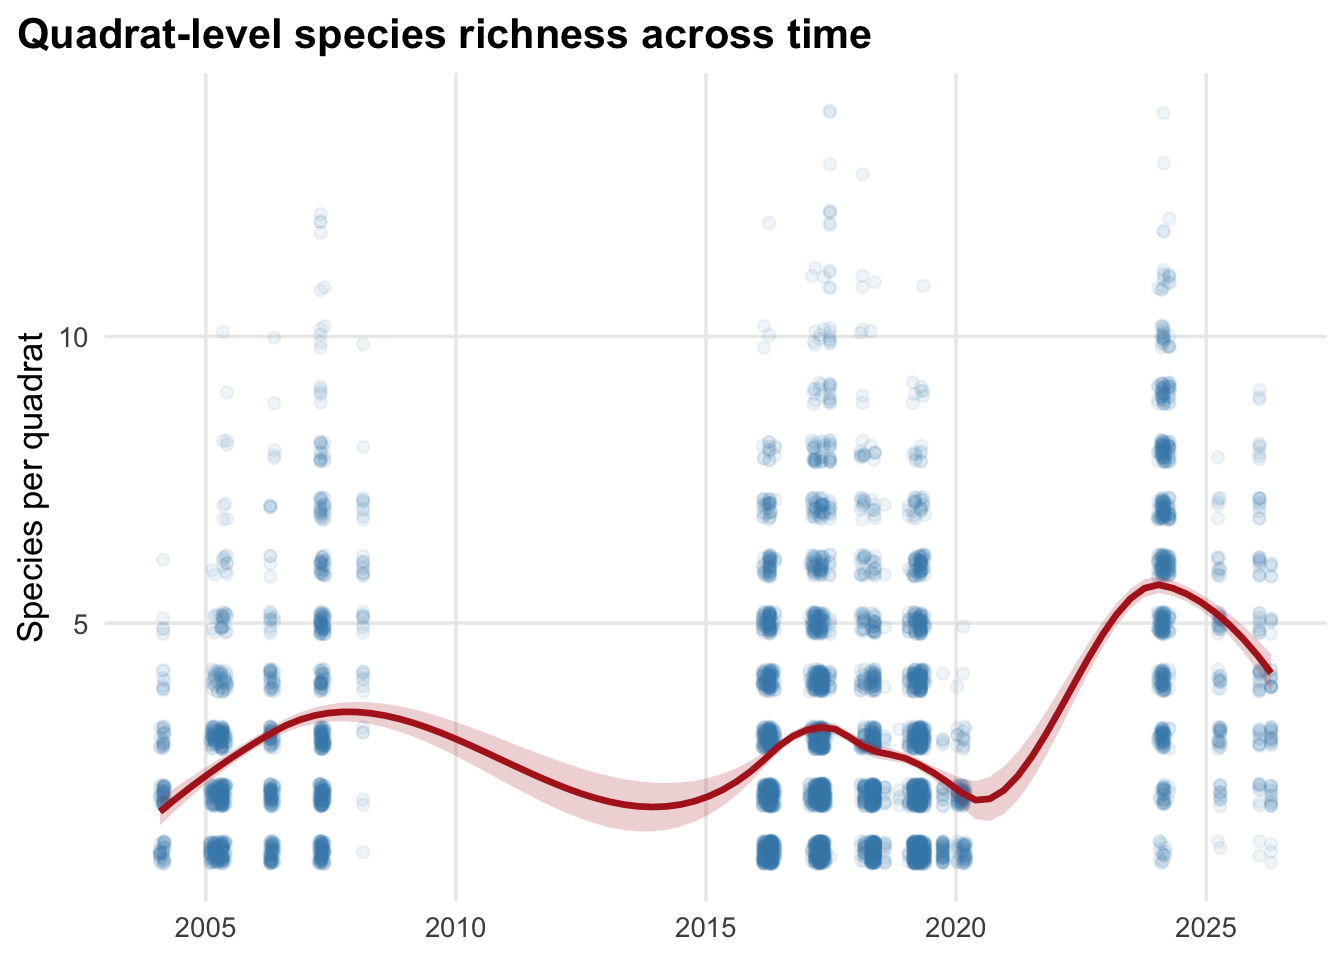
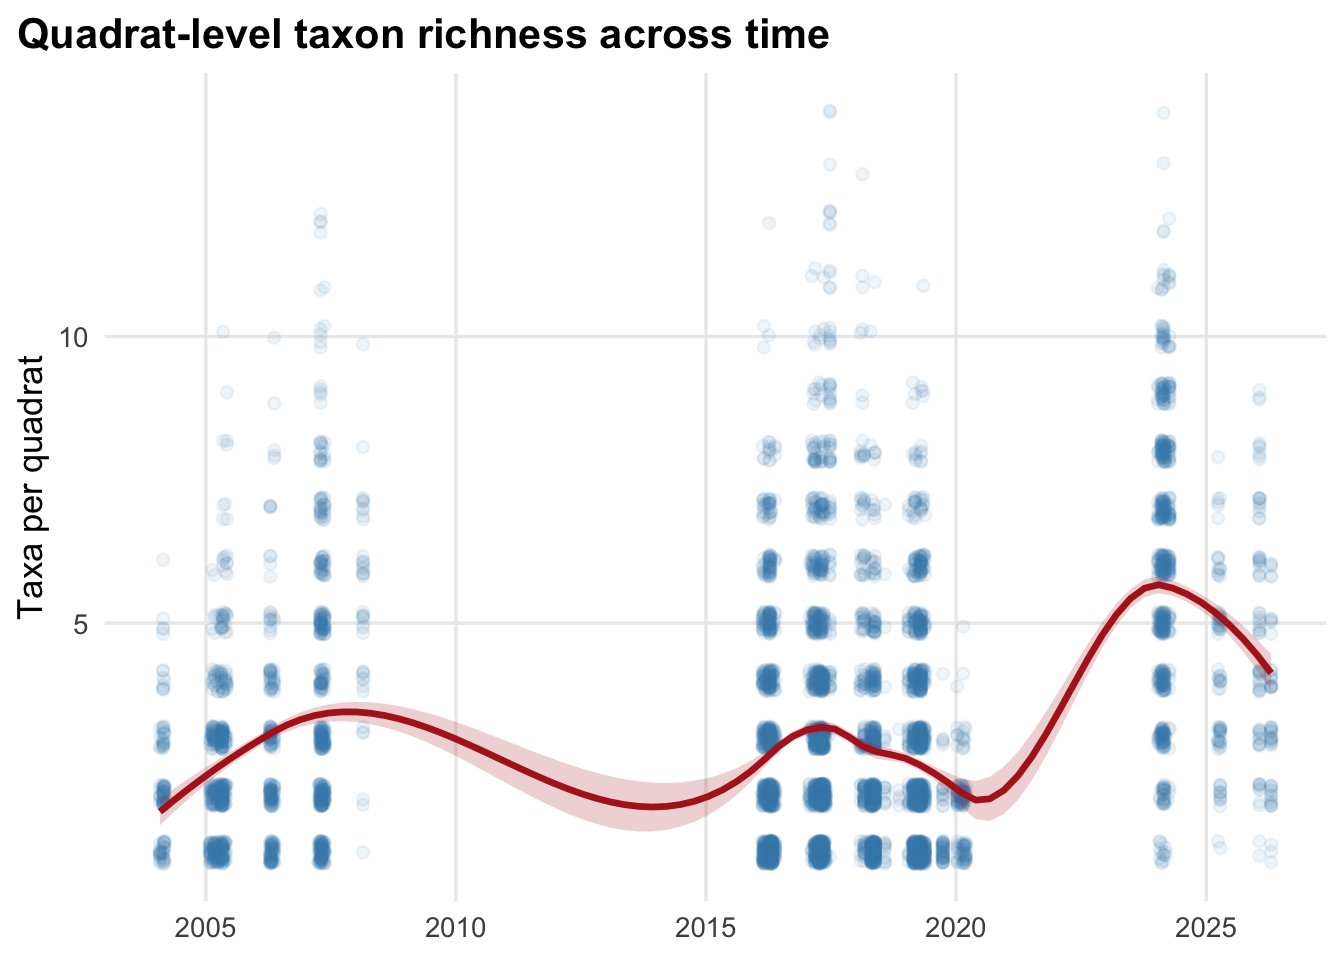
NGS AI log + qmd update

Changed region(s): [[0.2188, 0.0, 0.6562, 0.0625], [0.0, 0.3438, 0.0312, 0.6875]]

diff --git a/Scripts/Scripts_NGS/opihi_plots_NGS.html b/Scripts/Scripts_NGS/opihi_plots_NGS.html
@@ -92,8 +92,8 @@ pre > code.sourceCode > span > a:first-child::before { text-decoration: underlin
   <li><a href="#loading-data" id="toc-loading-data" class="nav-link" data-scroll-target="#loading-data">Loading data</a></li>
   <li><a href="#data-wrangling" id="toc-data-wrangling" class="nav-link" data-scroll-target="#data-wrangling">Data wrangling</a></li>
   <li><a href="#nmds-plot-by-island" id="toc-nmds-plot-by-island" class="nav-link" data-scroll-target="#nmds-plot-by-island">NMDS plot by island</a></li>
-  <li><a href="#species-diversity-across-time-pooled-sites" id="toc-species-diversity-across-time-pooled-sites" class="nav-link" data-scroll-target="#species-diversity-across-time-pooled-sites">Species diversity across time (pooled sites):</a></li>
-  <li><a href="#species-richness-over-time-by-island" id="toc-species-richness-over-time-by-island" class="nav-link" data-scroll-target="#species-richness-over-time-by-island">Species richness over time, by island</a></li>
+  <li><a href="#taxon-diversity-across-time-pooled-sites" id="toc-taxon-diversity-across-time-pooled-sites" class="nav-link" data-scroll-target="#taxon-diversity-across-time-pooled-sites">Taxon diversity across time (pooled sites):</a></li>
+  <li><a href="#taxon-richness-over-time-by-island" id="toc-taxon-richness-over-time-by-island" class="nav-link" data-scroll-target="#taxon-richness-over-time-by-island">Taxon richness over time, by island</a></li>
   <li><a href="#visualizing-trends-of-winners-and-losers-per-taxon-trend-over-time" id="toc-visualizing-trends-of-winners-and-losers-per-taxon-trend-over-time" class="nav-link" data-scroll-target="#visualizing-trends-of-winners-and-losers-per-taxon-trend-over-time">Visualizing trends of “winners and losers” per-taxon trend over time</a></li>
   </ul>
 </nav>
@@ -463,8 +463,8 @@ Figure&nbsp;1: NMDS visualizing community composition shifts by island across ti
 </div>
 </div>
 </section>
-<section id="species-diversity-across-time-pooled-sites" class="level2">
-<h2 class="anchored" data-anchor-id="species-diversity-across-time-pooled-sites">Species diversity across time (pooled sites):</h2>
+<section id="taxon-diversity-across-time-pooled-sites" class="level2">
+<h2 class="anchored" data-anchor-id="taxon-diversity-across-time-pooled-sites">Taxon diversity across time (pooled sites):</h2>
 <div class="cell">
 <details class="code-fold">
 <summary>Show code</summary>
@@ -496,7 +496,7 @@ Figure&nbsp;1: NMDS visualizing community composition shifts by island across ti
 <span id="cb16-9"><a href="#cb16-9" aria-hidden="true" tabindex="-1"></a>  <span class="fu">ggplot</span>(<span class="fu">aes</span>(date, richness)) <span class="sc">+</span></span>
 <span id="cb16-10"><a href="#cb16-10" aria-hidden="true" tabindex="-1"></a>  <span class="fu">geom_jitter</span>(<span class="at">alpha =</span> <span class="fl">0.08</span>, <span class="at">width =</span> <span class="dv">0</span>, <span class="at">height =</span> <span class="fl">0.2</span>, <span class="at">color =</span> <span class="st">"steelblue"</span>) <span class="sc">+</span></span>
 <span id="cb16-11"><a href="#cb16-11" aria-hidden="true" tabindex="-1"></a>  <span class="fu">geom_smooth</span>(<span class="at">method =</span> <span class="st">"loess"</span>, <span class="at">span =</span> <span class="fl">0.6</span>, <span class="at">color =</span> <span class="st">"firebrick"</span>, <span class="at">fill =</span> <span class="st">"firebrick"</span>, <span class="at">alpha =</span> <span class="fl">0.2</span>) <span class="sc">+</span></span>
-<span id="cb16-12"><a href="#cb16-12" aria-hidden="true" tabindex="-1"></a>  <span class="fu">labs</span>(<span class="at">title =</span> <span class="st">"Quadrat-level species richness across time"</span>, <span class="at">x =</span> <span class="cn">NULL</span>, <span class="at">y =</span> <span class="st">"Species per quadrat"</span>)</span>
+<span id="cb16-12"><a href="#cb16-12" aria-hidden="true" tabindex="-1"></a>  <span class="fu">labs</span>(<span class="at">title =</span> <span class="st">"Quadrat-level taxon richness across time"</span>, <span class="at">x =</span> <span class="cn">NULL</span>, <span class="at">y =</span> <span class="st">"Taxa per quadrat"</span>)</span>
 <span id="cb16-13"><a href="#cb16-13" aria-hidden="true" tabindex="-1"></a>p_div_pooled</span></code></pre></div><button title="Copy to Clipboard" class="code-copy-button"><i class="bi"></i></button></div>
 </details>
 <div class="cell-output-display">
@@ -506,15 +506,15 @@ Figure&nbsp;1: NMDS visualizing community composition shifts by island across ti
 <img src="opihi_plots_NGS_files/figure-html/fig-richness-pooled-1.png" class="img-fluid figure-img" width="672">
 </div>
 <figcaption class="quarto-float-caption-bottom quarto-float-caption quarto-float-fig" id="fig-richness-pooled-caption-0ceaefa1-69ba-4598-a22c-09a6ac19f8ca">
-Figure&nbsp;2: Quadrat-level species richness (number of taxa per quadrat) across time. Every dot is one quadrat, the red line is a LOESS smooth with uncertainty band. The smooth is drawn straight across the survey gaps (2009-2015, 2021-2023), so the line there is an interpolation, not data.
+Figure&nbsp;2: Quadrat-level taxon richness (number of taxa per quadrat) across time. Every dot is one quadrat, the red line is a LOESS smooth with uncertainty band. The smooth is drawn straight across the survey gaps (2009-2015, 2021-2023), so the line there is an interpolation, not data.
 </figcaption>
 </figure>
 </div>
 </div>
 </div>
 </section>
-<section id="species-richness-over-time-by-island" class="level2">
-<h2 class="anchored" data-anchor-id="species-richness-over-time-by-island">Species richness over time, by island</h2>
+<section id="taxon-richness-over-time-by-island" class="level2">
+<h2 class="anchored" data-anchor-id="taxon-richness-over-time-by-island">Taxon richness over time, by island</h2>
 <div class="cell">
 <details class="code-fold">
 <summary>Show code</summary>
@@ -568,9 +568,9 @@ Figure&nbsp;2: Quadrat-level species richness (number of taxa per quadrat) acros
 <span id="cb19-15"><a href="#cb19-15" aria-hidden="true" tabindex="-1"></a>    <span class="fu">scale_size_continuous</span>(<span class="at">range =</span> <span class="fu">c</span>(<span class="fl">1.5</span>, <span class="dv">5</span>), <span class="at">name =</span> <span class="st">"Quadrats"</span>) <span class="sc">+</span></span>
 <span id="cb19-16"><a href="#cb19-16" aria-hidden="true" tabindex="-1"></a>    <span class="fu">guides</span>(<span class="at">size =</span> <span class="fu">guide_legend</span>(<span class="at">override.aes =</span> <span class="fu">list</span>(<span class="at">fill =</span> <span class="st">"grey40"</span>, <span class="at">color =</span> <span class="st">"grey40"</span>)))<span class="sc">+</span></span>
 <span id="cb19-17"><a href="#cb19-17" aria-hidden="true" tabindex="-1"></a>    <span class="fu">scale_x_continuous</span>(<span class="at">breaks =</span> <span class="fu">pretty_breaks</span>()) <span class="sc">+</span></span>
-<span id="cb19-18"><a href="#cb19-18" aria-hidden="true" tabindex="-1"></a>    <span class="fu">labs</span>(<span class="at">title =</span> <span class="st">"Species richness by island"</span>,</span>
+<span id="cb19-18"><a href="#cb19-18" aria-hidden="true" tabindex="-1"></a>    <span class="fu">labs</span>(<span class="at">title =</span> <span class="st">"Taxon richness by island"</span>,</span>
 <span id="cb19-19"><a href="#cb19-19" aria-hidden="true" tabindex="-1"></a>         <span class="at">subtitle =</span> <span class="st">"Mean \u00b1 SE per quadrat; point size = number of quadrats sampled"</span>,</span>
-<span id="cb19-20"><a href="#cb19-20" aria-hidden="true" tabindex="-1"></a>         <span class="at">x =</span> <span class="cn">NULL</span>, <span class="at">y =</span> <span class="st">"Species per quadrat"</span>)</span>
+<span id="cb19-20"><a href="#cb19-20" aria-hidden="true" tabindex="-1"></a>         <span class="at">x =</span> <span class="cn">NULL</span>, <span class="at">y =</span> <span class="st">"Taxa per quadrat"</span>)</span>
 <span id="cb19-21"><a href="#cb19-21" aria-hidden="true" tabindex="-1"></a>}</span>
 <span id="cb19-22"><a href="#cb19-22" aria-hidden="true" tabindex="-1"></a></span>
 <span id="cb19-23"><a href="#cb19-23" aria-hidden="true" tabindex="-1"></a><span class="co"># Draws the plot using only data through 2020, where we have data for all islands </span></span>
@@ -584,7 +584,7 @@ Figure&nbsp;2: Quadrat-level species richness (number of taxa per quadrat) acros
 <img src="opihi_plots_NGS_files/figure-html/fig-richness2020-1.png" class="img-fluid figure-img" width="672">
 </div>
 <figcaption class="quarto-float-caption-bottom quarto-float-caption quarto-float-fig" id="fig-richness2020-caption-0ceaefa1-69ba-4598-a22c-09a6ac19f8ca">
-Figure&nbsp;3: Quadrat-level species richness (number of taxa per quadrat) across time, by island. Mean ± SE is plotted, with point size representing the number of quadrats sampled. Data through 2020 is plotted.
+Figure&nbsp;3: Quadrat-level taxon richness (number of taxa per quadrat) across time, by island. Mean ± SE is plotted, with point size representing the number of quadrats sampled. Data through 2020 is plotted.
 </figcaption>
 </figure>
 </div>
@@ -604,7 +604,7 @@ Figure&nbsp;3: Quadrat-level species richness (number of taxa per quadrat) acros
 <img src="opihi_plots_NGS_files/figure-html/fig-richness2026-1.png" class="img-fluid figure-img" width="672">
 </div>
 <figcaption class="quarto-float-caption-bottom quarto-float-caption quarto-float-fig" id="fig-richness2026-caption-0ceaefa1-69ba-4598-a22c-09a6ac19f8ca">
-Figure&nbsp;4: Quadrat-level species richness (number of taxa per quadrat) across time, by island. Mean ± SE is plotted, with point size representing the number of quadrats sampled.
+Figure&nbsp;4: Quadrat-level taxon richness (number of taxa per quadrat) across time, by island. Mean ± SE is plotted, with point size representing the number of quadrats sampled.
 </figcaption>
 </figure>
 </div>

diff --git a/AI_Logs/NGS_Group_AI_Developer_Log.md b/AI_Logs/NGS_Group_AI_Developer_Log.md
@@ -1,0 +1,58 @@
+## Natalie Goeler-Slough
+
+## AI Developer Log for OPIHI Data Sprint
+
+
+### Summary
+
+I used Claude as a coding and debugging assistant to help brainstorm plot ideas, draft R code, and diagnose data problems. The AI wrote first drafts of the code and I ran, edited, and checked everything myself. The most important mistake that happened is that the AI's first version of the quadrat ID was wrong for 2024-2026, which produced impossible richness values. I noticed the symptom, the AI proposed diagnostics, I ran them and pasted the output, and the data pointed to the real cause (see section below).
+
+In previous scripts, when working to wrangle the entire dataset and in preliminary plotting, I used Google Gemini, but Claude ultimately did a better job here at creating code for higher quality plots.
+
+### Selected prompts and outputs
+
+| My prompt (abridged) | What the AI produced | Outcome |
+|---|---|---|
+| pasted `glimpse()` of the data; help me think through and draft code for plots showing change over time | Sampling-effort heatmap, diversity metrics through time, top-species area/heatmap, rank-abundance curves, NMDS trajectories, per-taxon trends | Used parts as the base for my final document; I kept 4 of the plots |
+| NMDS plot across years with color by island instead of by site | Assigned each site to an island from lat/long (nearest island center), then colors the NMDS by island | Used, but one site needed a manual fix |
+| community richness across time by island | Richness per quadrat by island, small multiples, and rarefied richness | Kept the per-quadrat version |
+| i think there are a bunch of duplicates in the recent data because the metadata wasn't included such that each observation / taxon has 2 row entries... help fix | Diagnostic for duplicates by year plus a `dedupe_keep_fullest()` function | Used (I extended `dup_years` to 2024:2026) |
+| richness spikes from ~3 to ~20 species per quadrat when there are only 25 possible points per quadrat. help me find the error | Diagnostics with checks for ID problems vs. leftover duplicates | Ran it; led to the actual cause |
+| the legend key for size of circle isn't working | Diagnosis (size legend keys were white-on-white) and a `guides(size = guide_legend(override.aes = ...))` fix | Added to my plot code |
+
+---
+
+### Biggest AI mistake: quadrats were identified using a column that was empty in 2024-2026
+
+**What the AI assumed.** In the first script, a quadrat was identified as `paste(site_key, date, transect_id, quadrat_id)`. The AI assumed `quadrat_id` was filled in for every year. The `glimpse()` I gave it only showed the first rows of the data, so it could not have seen the later years, but it also did not build in an NA check, which was the thing that would have caught the problem.
+
+**False reassurance about duplicates.** When I reported the duplicates, the AI said richness would be unaffected. That was true for duplicate rows, but it missed the real problem, and I found the spike myself rather than the AI catching it.
+
+**What went wrong.** `quadrat_id` was blank in 2024, 2025 and 2026, so every quadrat on a transect got the same ID (`...|NA`). Each "quadrat" was really a whole transect with up to 11 real quadrats pooled together. Consequences:
+
+- Per-quadrat richness in 2024 was inflated to a median of 19 species (max 26), when a quadrat only has 25 points.
+- The number of quadrats was far too low, so every density (count divided by number of quadrats) was inflated in 2024-2026. That affects the NMDS and the winners/losers trends, not just richness.
+
+**How it was found.** I noticed the impossible richness values (knowing there was a max of 25 points per quadrat) and asked the AI for help fixing. The AI wrote a diagnostic script, and the results helped identify all the NAs in quadrat ID.
+
+**The fix.** `position` was filled in every year, so quadrats are now identified by `site_key | date | transect_id | position`.
+
+**Verification after the fix**:
+
+| Year | Quadrats before → after | Median richness before → after | Max richness before → after |
+|---|---|---|---|
+| 2024 | 61 → 624 | 19 → 6 | 26 → 14 |
+| 2025 | 12 → 82 | 10.5 → 4 | 17 → 8 |
+| 2026 | 12 → 129 | 11 → 4 | 22 → 9 |
+
+The earlier years also barely changed (for example 2016: 1,088 → 1,108 quadrats), suggesting the new ID is not distorting previous years that were already fine.
+
+---
+
+### Checks, fixes, & debugging steps
+
+1. **Impossible richness** (~20 species per quadrat). I spotted the impossible richness values, ran the diagnostic script, found that `quadrat_id` was all NA in 2024-2026, switched to `position`, reran and compared the before/after tables in Section 4.
+2. **Size legend not showing.** I noticed the size legend wasn't showing up on the plots. AI diagnosed it from the code (white keys on a white background) and correctly suggested `override.aes`.
+3. **Manually checking island assignments.** Had to check island assignments and manually correct Mamala Bay (as it was missing latitude/longitude coordinates).
+4. **Added Hawaiian names with ʻokina and kahakō to island labels.** Had to add/prompt to add correct spelling of Hawaiian islands.
+
